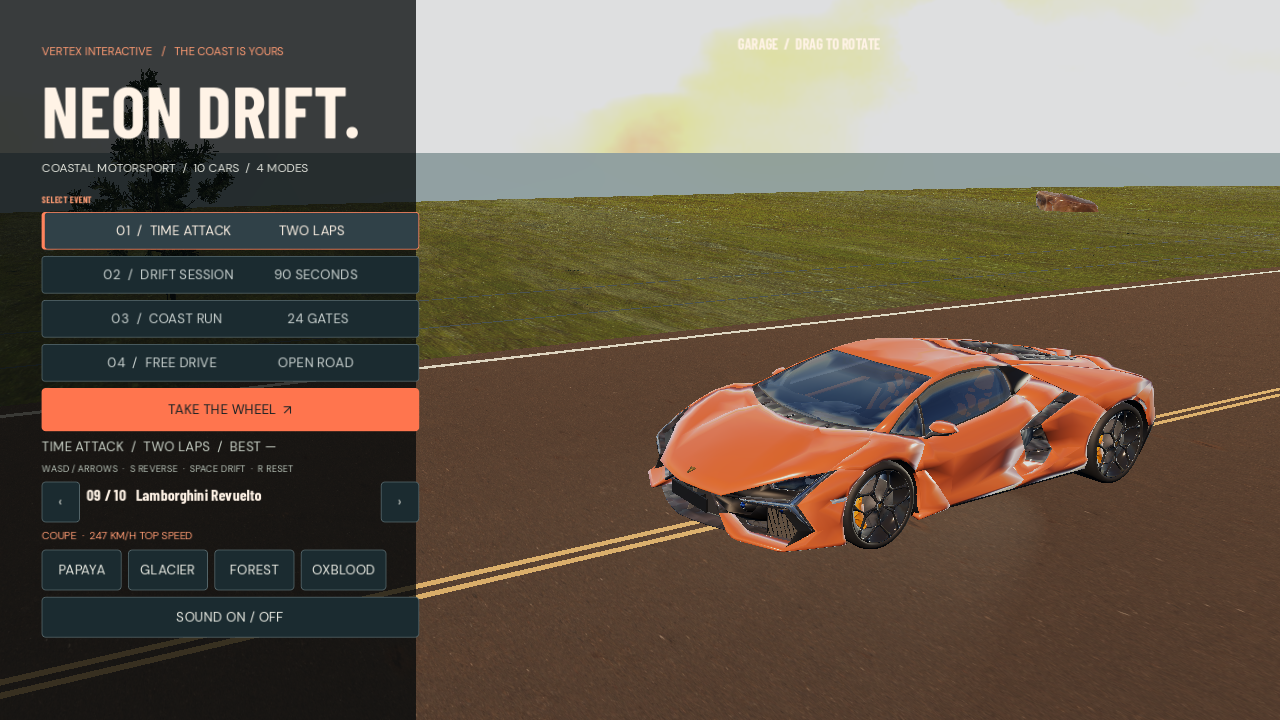
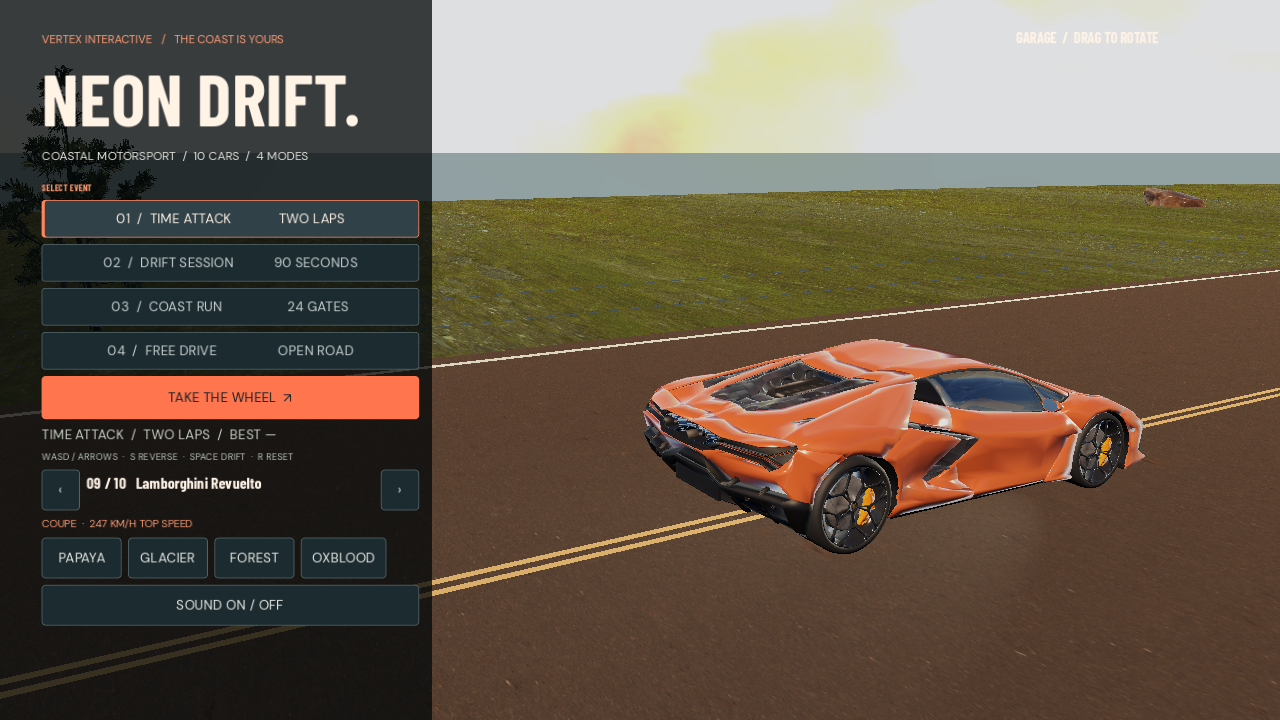
Fix native car directions, speed display and menu layout

diff --git a/README.md b/README.md
@@ -4,11 +4,13 @@
 
 The native Godot edition now has **10 licensed 3D cars**, a **3.3 km circuit**, reverse gear, an orbiting garage camera, and four modes. It runs as a desktop game; the browser edition remains playable online.
 
-[**Play on phone or browser →**](https://vertex-blip.github.io/neon-drift/) · [**Download Windows game →**](https://github.com/Vertex-blip/neon-drift/releases/download/v0.2.0-native-preview/NeonDrift-Windows.zip) · [**Open Godot source →**](godot/project.godot)
+[**Play on phone or browser →**](https://vertex-blip.github.io/neon-drift/) · [**Download Windows game →**](https://github.com/Vertex-blip/neon-drift/releases/download/v0.2.1-native-fixes/NeonDrift-Windows.zip) · [**Open Godot source →**](godot/project.godot)
 
 ![Native Godot garage with the Lamborghini Revuelto](godot/docs/godot-garage.png)
 
 ## Godot edition
+
+**Version 0.2.1:** corrected all ten car directions, restored the km/h and gear display, centered pause/results menus, and fixed HUD placement on resized windows. [Release notes](godot/docs/RELEASE-0.2.1.md).
 
 | Mode | Goal |
 | --- | --- |

diff --git a/godot/docs/RELEASE-0.2.1.md b/godot/docs/RELEASE-0.2.1.md
@@ -1,0 +1,12 @@
+## Driving and interface fixes
+
+- All ten car models face forward when accelerating. The chase camera now looks at the rear of the vehicle.
+- Speed is visible in a dedicated panel with km/h and the current forward or reverse gear.
+- The timer, objective and lap counter fit the screen and have a dark backdrop for readability.
+- Pause and results open in centered panels with a dimmed background. Menu buttons are clickable at all tested window sizes.
+- Desktop play hides mobile pedals and their labels.
+- Garage layout scales with the viewport; mouse and touch orbit starts outside its sidebar.
+
+Verified in Godot 4.7.2 at window sizes 1280×720, 1920×1080 and 1024×600, including pointer clicks on Continue. All ten model directions were visually checked.
+
+**Windows:** extract the archive completely and run `NeonDrift.exe`. Keep `NeonDrift.pck` beside it. Replace both files when updating from the previous preview. Godot editor users can open `godot/project.godot` and press F5.
